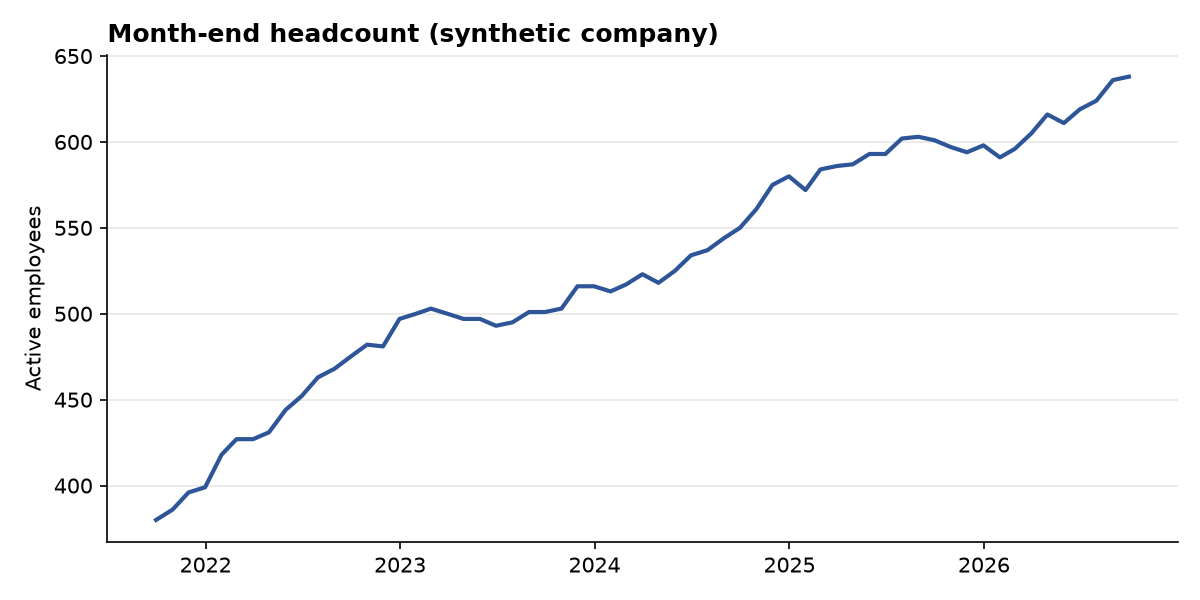
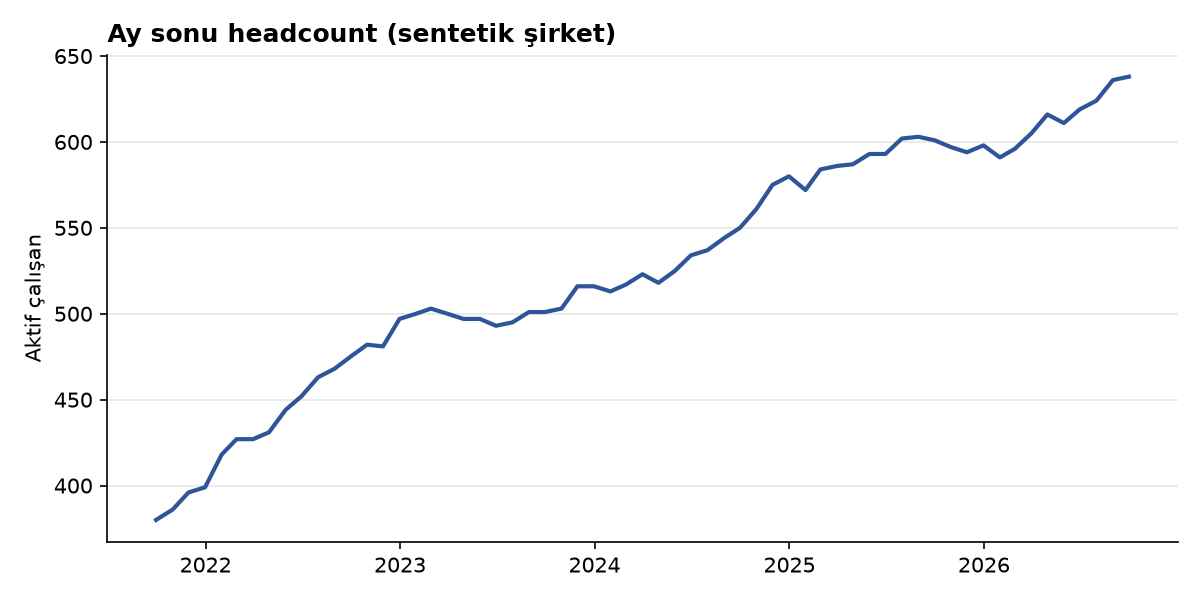
README ve grafikleri Türkçeleştir, CI ekle

Changed region(s): [[0.0925, 0.03, 0.6167, 0.09], [0.0, 0.36, 0.0617, 0.66]]

diff --git a/examples/make_charts.py b/examples/make_charts.py
@@ -33,8 +33,8 @@ months = pd.date_range("2021-09-30", AS_OF, freq="ME")
 hc = [headcount(company, m) for m in months]
 fig, ax = plt.subplots(figsize=(8, 4))
 ax.plot(months, hc, color=BLUE, linewidth=2)
-ax.set_title("Month-end headcount (synthetic company)", loc="left", fontweight="bold")
-ax.set_ylabel("Active employees")
+ax.set_title("Ay sonu headcount (sentetik şirket)", loc="left", fontweight="bold")
+ax.set_ylabel("Aktif çalışan")
 ax.grid(axis="y", alpha=0.3)
 save(fig, "headcount_trend.png")
 
@@ -43,8 +43,8 @@ t = turnover_by(company, "2025-10-01", AS_OF).sort_values("turnover_rate")
 fig, ax = plt.subplots(figsize=(8, 4))
 bars = ax.barh(t["department"], t["turnover_rate"] * 100, color=BLUE)
 ax.bar_label(bars, fmt="%.1f%%", padding=3)
-ax.set_title("12-month turnover by department", loc="left", fontweight="bold")
-ax.set_xlabel("Turnover rate (%)")
+ax.set_title("Departman bazlı 12 aylık turnover", loc="left", fontweight="bold")
+ax.set_xlabel("Turnover oranı (%)")
 ax.set_xlim(0, t["turnover_rate"].max() * 100 * 1.15)
 save(fig, "turnover_by_department.png")
 
@@ -56,6 +56,6 @@ colors = [RED if s == "error" else ORANGE for s in rep["severity"]]
 fig, ax = plt.subplots(figsize=(8, 4.5))
 bars = ax.barh(rep["check"], rep["rows"], color=colors)
 ax.bar_label(bars, padding=3)
-ax.set_title("Data quality: issues found in dirty data", loc="left", fontweight="bold")
-ax.set_xlabel("Affected rows (red = error, orange = warning)")
+ax.set_title("Veri kalitesi: kirli veride bulunan sorunlar", loc="left", fontweight="bold")
+ax.set_xlabel("Etkilenen satır (kırmızı = hata, turuncu = uyarı)")
 save(fig, "data_quality_report.png")

diff --git a/README.md b/README.md
@@ -1,32 +1,38 @@
 # peoplelens
 
-**An open-source HR analytics toolkit that turns messy HR exports from any company into trusted, tested metrics.**
+![tests](https://github.com/tollal/peoplelens/actions/workflows/tests.yml/badge.svg)
 
-Every company exports HR data differently, and every export is dirty. `peoplelens` puts one standard data model in the middle: you describe a company's file in a small YAML mapping, and the same quality checks and metric definitions run on top, unchanged.
+**Dağınık İK dosyalarını güvenilir, testli metriklere çeviren açık kaynaklı bir İK analitiği kütüphanesi.**
 
-> All data in this repository is **synthetic**. No real employee data is, or should ever be, committed here.
+Her şirket İK verisini farklı biçimde dışarı aktarır ve her dosya kirlidir. `peoplelens`, ortaya tek bir standart veri modeli koyar: bir şirketin dosyasını küçük bir YAML eşleme dosyasıyla tarif edersiniz; üstündeki kalite kontrolleri ve metrik tanımları ise hiç değişmeden çalışır.
 
-## How it works
+> Bu depodaki tüm veriler **sentetiktir**. Depoya gerçek çalışan verisi yüklenmemiştir ve yüklenmemelidir.
+
+## Nasıl çalışır
 
 ```
-Raw export (CSV / Excel)
-        |   YAML mapping (one per company)
+Ham dosya (CSV / Excel)
+        |   YAML eşleme dosyası (şirket başına bir tane)
         v
-  Canonical employee table   <- schema validation
+  Standart çalışan tablosu    <- şema doğrulama
         |
-        +--> Data quality engine   (14 checks, error / warning severity, quality score)
-        +--> Metric library        (headcount, FTE, hires, terminations, turnover)
+        +--> Veri kalitesi motoru   (14 kontrol, hata / uyarı, kalite skoru)
+        +--> Temel temizlik         (güvenli onarımlar, her adım raporlanır)
+        +--> Metrik kütüphanesi     (headcount, FTE, işe giriş, ayrılma, turnover)
+        +--> Elde tutma analizi     (Kaplan-Meier)
+        +--> Türkiye modülü         (kıdem / ihbar tazminatı, bilanço yükümlülüğü)
+        +--> Dashboard              (Streamlit)
 ```
 
-## What it looks like
+## Görünüm
 
 ![Headcount](docs/headcount_trend.png)
 ![Turnover](docs/turnover_by_department.png)
-![Data quality](docs/data_quality_report.png)
+![Veri kalitesi](docs/data_quality_report.png)
 
-The last chart comes from a file where errors were injected on purpose. The tests check that **every injected error is found, with the exact count**, and that a clean company produces zero false alarms.
+Son grafik, içine bilerek hata eklenmiş bir dosyadan geliyor. Testler, **eklenen her hatanın tam sayısıyla bulunduğunu** ve temiz bir şirkette sıfır yanlış alarm çıktığını doğrular. (Kontrol adları kodda İngilizce tutulmuştur.)
 
-## Quickstart
+## Hızlı başlangıç
 
 ```bash
 git clone https://github.com/tollal/peoplelens.git
@@ -41,26 +47,28 @@ from peoplelens.mapping import load_company
 from peoplelens.quality import run_checks, quality_score
 from peoplelens.metrics import turnover_by
 
-df, notes = load_company("examples/sirket_a_ham.csv", "examples/sirket_a.yaml")
+df, notlar = load_company("examples/sirket_a_ham.csv", "examples/sirket_a.yaml")
 print(quality_score(df, "2026-09-30"))
 print(run_checks(df, "2026-09-30"))
 print(turnover_by(df, "2025-10-01", "2026-09-30"))
 ```
 
-## Onboarding a new company
+## Yeni bir şirketi eklemek
 
-Copy `examples/sirket_a.yaml` and change the column names. The example handles a Turkish-style export: `;` separated, `dd.mm.yyyy` dates, `45.000,50` salaries, and local termination reasons (`İstifa`, `İşten Çıkarma`) mapped to `voluntary` / `involuntary`. Missing optional columns fall back to defaults, and every conversion is reported back as a note instead of failing silently.
+`examples/sirket_a.yaml` dosyasını kopyalayıp sütun adlarını değiştirmeniz yeterlidir. Örnek, Türkiye tarzı bir dışa aktarımı işler: noktalı virgülle ayrılmış alanlar, `gg.aa.yyyy` tarihler, `45.000,50` biçiminde maaşlar ve yerel çıkış nedenleri (`İstifa`, `İşten Çıkarma`) `voluntary` / `involuntary` olarak eşlenir. Dosyada olmayan isteğe bağlı sütunlar varsayılan değerle doldurulur ve yapılan her dönüşüm sessizce geçilmek yerine not olarak raporlanır.
 
-## Metric definitions
+Excel dosyaları için bir kez `uv add openpyxl` çalıştırmanız yeterlidir.
 
-Definitions live in the docstrings of `src/peoplelens/metrics.py` and are covered by tests.
+## Metrik tanımları
 
-- **Headcount**: employees active on a date. `termination_date` is the last working day and counts as active.
-- **Turnover rate**: terminations in the period / average headcount, where average = (opening + closing) / 2. Optional annualization and voluntary / involuntary split.
+Tanımlar `src/peoplelens/metrics.py` içindeki açıklamalarda yazılıdır ve testlerle korunur.
 
-## Turkey module
+- **Headcount:** Bir tarihte aktif çalışan sayısı. `termination_date` son çalışma günüdür ve o gün aktif sayılır.
+- **Turnover oranı:** Dönemdeki ayrılanlar / ortalama headcount. Ortalama = (dönem başı + dönem sonu) / 2. İsteğe bağlı yıllıklandırma ve gönüllü / gönülsüz ayrımı vardır.
 
-Severance (*kıdem tazminatı*) and notice (*ihbar tazminatı*) calculations, with the statutory ceiling table built in. It answers the CFO question "what would we owe if everyone left today?" per employee and per department.
+## Türkiye modülü
+
+Kıdem tazminatı ve ihbar tazminatı hesapları, yasal tavan tablosuyla birlikte gelir. "Herkes bugün işten ayrılsa ne ödememiz gerekir?" sorusunu çalışan ve departman bazında yanıtlar.
 
 ```python
 from peoplelens.turkey import severance_liability, liability_summary
@@ -70,11 +78,16 @@ print(liab["gross_liability"].sum())
 print(liability_summary(liab))
 ```
 
-Notes: the ceiling table lives in `turkey.py` and must be updated every January and July (dates outside the table raise an error instead of guessing). The liability is an upper bound, not an actuarial TMS 19 provision, and this is not legal advice.
+Notlar:
 
-## Retention analysis
+- Tavan tablosu `turkey.py` içindedir ve her Ocak ile Temmuz ayında güncellenmelidir. Tablodaki dönemlerin dışındaki tarihlerde kod tahmin yürütmek yerine hata verir.
+- Hesaplanan yükümlülük bir **üst sınırdır**; aktüeryal TMS 19 karşılığının yerine geçmez.
+- Maaş, giydirilmiş brüt ücret kabul edilir.
+- Bu modül hukuki danışmanlık değildir.
 
-Kaplan-Meier retention curves answer "what share of new hires is still here after 6, 12, 24 months?", by department. It is validated against the known true curve of the synthetic generator.
+## Elde tutma analizi
+
+Kaplan-Meier eğrileri, "işe girenlerin yüzde kaçı 6, 12 ve 24. ayda hâlâ şirkette?" sorusunu departman bazında yanıtlar. Yöntem, sentetik şirket üretecinin bilinen gerçek eğrisine karşı doğrulanmıştır.
 
 ```python
 from peoplelens.attrition import retention_table
@@ -82,29 +95,39 @@ from peoplelens.attrition import retention_table
 print(retention_table(df, "2026-09-30", cohort_start="2021-10-01"))
 ```
 
-Only people hired inside the analysis window are used, to avoid survivorship bias.
-## Privacy
+Hayatta kalma yanlılığını önlemek için yalnızca analiz penceresinin içinde işe girenler kullanılır.
 
-Real HR data is personal data. Keep it outside the repository (`data/` and `*.xlsx` are git-ignored) and follow your local regulations, such as KVKK in Turkey or GDPR in the EU.
+## Dashboard
 
-## Roadmap
+```bash
+uv sync --extra dashboard
+uv run streamlit run dashboard/app.py
+```
 
-- [x] Canonical schema and validation
-- [x] Synthetic company generator
-- [x] Data quality engine
-- [x] Core metrics
-- [x] Mapping engine (CSV / Excel to canonical)
-- [ ] Interactive dashboard
-- [x] Retention analysis (Kaplan-Meier survival curves)
-- [ ] Attrition prediction (explainable model)
-- [ ] Pay equity analysis
-- [x] Turkey module: severance (kıdem) and notice (ihbar) pay, balance-sheet liability
-- [ ] Turkey module: minimum wage impact
-- [ ] Privacy layer (minimum group size, anonymization)
+Dört sekme vardır: genel bakış (KPI'lar, aylık headcount, departman bazlı turnover), veri kalitesi (skor, bulunan sorunlar, temizlik adımları, temiz CSV indirme), elde tutma (Kaplan-Meier tablo ve eğriler) ve Türkiye kıdem modülü. Dahili sentetik şirketi kullanabilir ya da kendi dosyanızı bir eşleme YAML'ıyla birlikte yükleyebilirsiniz. Uygulama yerelde çalışır, yüklenen dosyalar bilgisayarınızdan çıkmaz. Ayarlanabilir minimum büyüklüğün altındaki gruplar gizlenir.
 
-## Türkçe özet
+## Gizlilik
 
-`peoplelens`, farklı şirketlerin dağınık İK dosyalarını tek bir standart modele çeviren, veri kalitesini ölçen ve testli İK metrikleri (headcount, turnover) hesaplayan açık kaynaklı bir Python kütüphanesidir. Her şirket için yalnızca bir YAML eşleme dosyası yazılır, geri kalan her şey aynı kalır. Depodaki tüm veriler sentetiktir. Kıdem tazminatı ve asgari ücret etkisi gibi Türkiye'ye özgü analizler yol haritasındadır.
+İK verisi kişisel veridir. Gerçek veriyi depo dışında tutun (`data/` klasörü ve `*.xlsx` dosyaları git tarafından yok sayılır) ve yerel mevzuata uyun (Türkiye'de KVKK, AB'de GDPR).
+
+## Yol haritası
+
+- [x] Standart şema ve doğrulama
+- [x] Sentetik şirket üreteci
+- [x] Veri kalitesi motoru
+- [x] Temel metrikler
+- [x] Eşleme motoru (CSV / Excel -> standart tablo)
+- [x] Temel temizlik
+- [x] Elde tutma analizi (Kaplan-Meier)
+- [x] Türkiye modülü: kıdem ve ihbar tazminatı, bilanço yükümlülüğü
+- [x] Etkileşimli dashboard (Streamlit)
+- [x] Minimum grup büyüklüğü kuralı (dashboard)
+- [ ] Ücret eşitliği analizi (pay equity)
+- [ ] Ayrılma tahmini (açıklanabilir model)
+- [ ] Türkiye modülü: asgari ücret etkisi
+- [ ] Anonimleştirme katmanı
+- [ ] Vaka çalışmaları
+- [ ] PyPI yayını
 
 ---
-Built by [Tolga](https://github.com/tollal).
+[Tolga](https://github.com/tollal) tarafından geliştirilmektedir.
